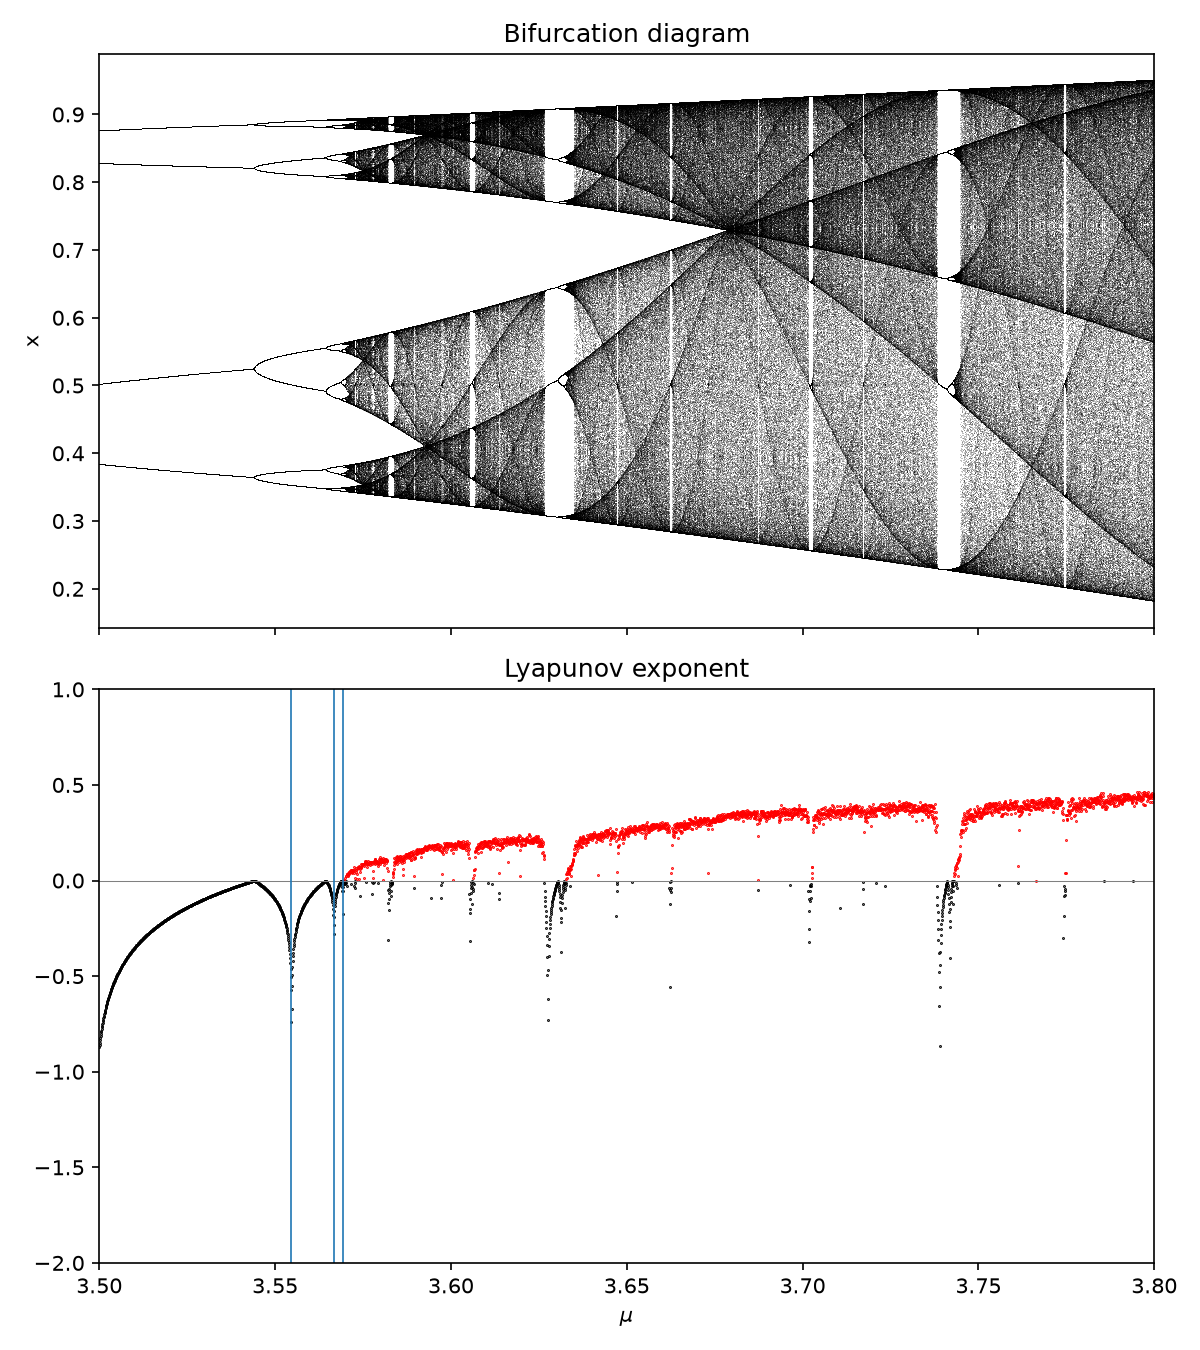
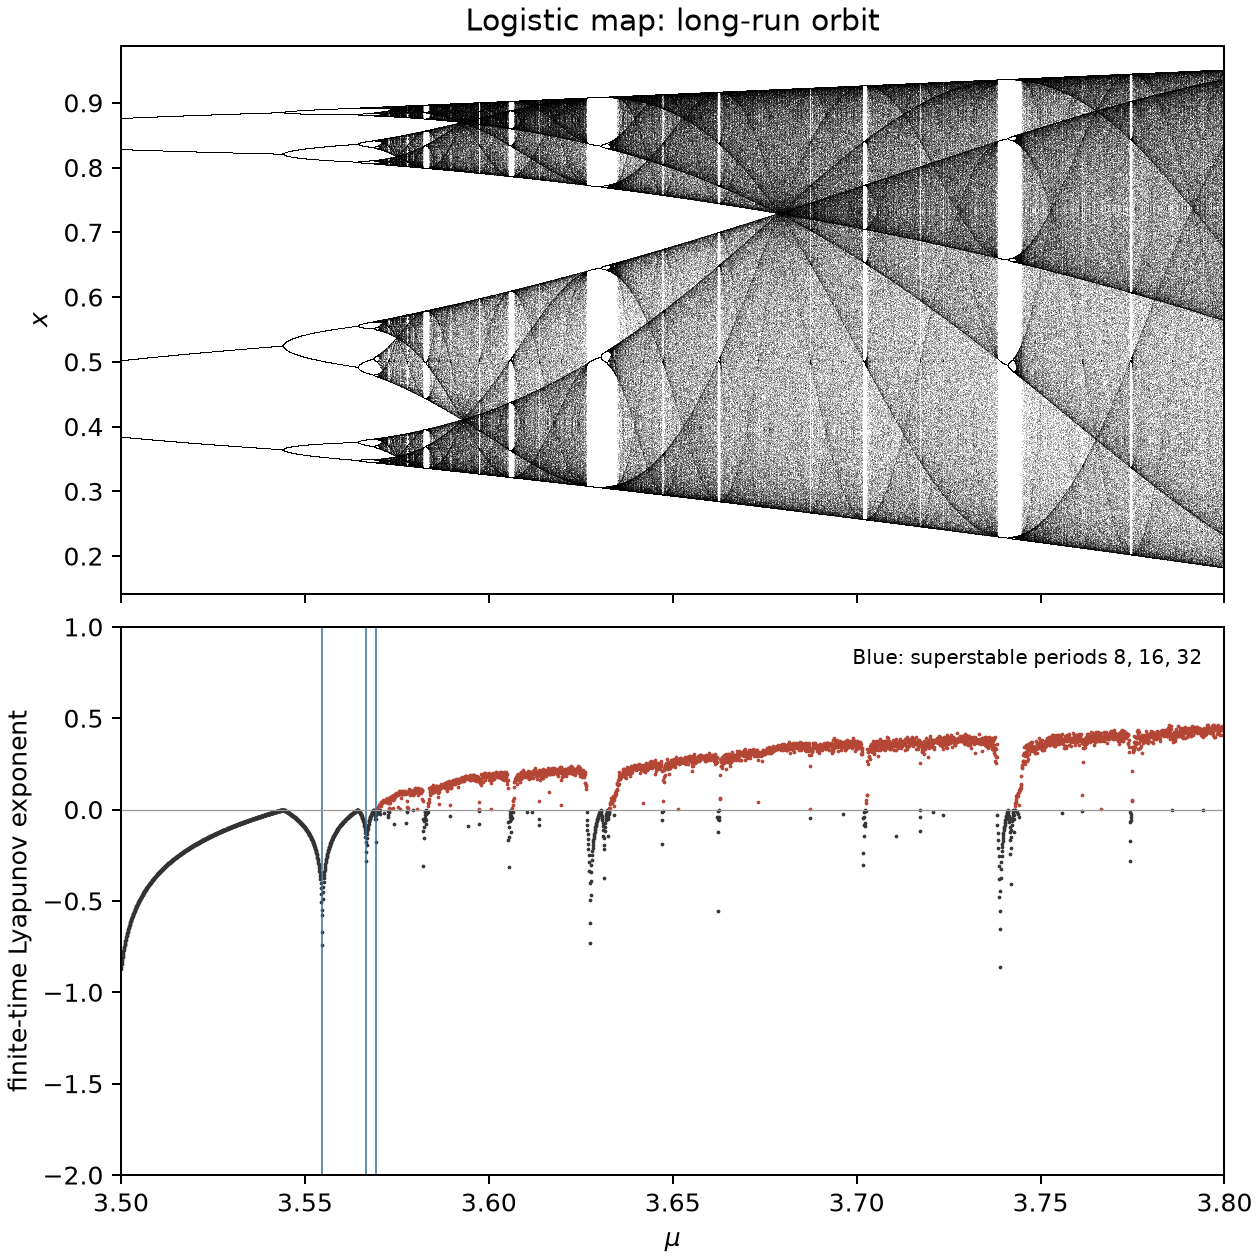
Add reproducible modern dynamical systems experiments

diff --git a/reconstructed/bifurcation_lyapunov.py b/reconstructed/bifurcation_lyapunov.py
@@ -1,61 +1,88 @@
-# Bifurcation diagram and Lyapunov exponent of the logistic map x -> mu x (1 - x).
-# 2026 reconstruction of a lost 2020 program; see figures/bifurcation.pdf for the original output.
-
-import os
+"""2026 reconstruction of the lost logistic-map experiment; originals are unchanged."""
+import argparse
 import numpy as np
-import matplotlib.pyplot as plt
-
-mu_min, mu_max = 3.5, 3.8
-n_mu = 4000          # number of parameter values
-transient = 1000     # iterations discarded before recording
-kept = 400           # iterations plotted and averaged
-
-mu = np.linspace(mu_min, mu_max, n_mu)
-x = np.full(n_mu, 0.5)
-
-for _ in range(transient):
-    x = mu * x * (1 - x)
-
-orbit = np.empty((kept, n_mu))
-lyap = np.zeros(n_mu)
-for k in range(kept):
-    x = mu * x * (1 - x)
-    orbit[k] = x
-    # lambda = lim (1/N) sum log|f'(x_n)|, with f'(x) = mu (1 - 2x)
-    lyap += np.log(np.abs(mu * (1 - 2 * x)) + 1e-300)
-lyap /= kept
+from common import save_figure
 
 
-def superstable(mu, N, iterations=50):
-    """Newton's method in mu for f^N(1/2) = 1/2, carrying d x / d mu along the orbit."""
+def iterate_parameter(mu, period):
+    """Return f_mu^period(1/2) and its parameter derivative."""
+    x, dx = 0.5, 0.0
+    for _ in range(period):
+        x, dx = mu*x*(1-x), x*(1-x) + mu*(1-2*x)*dx
+    return x, dx
+
+
+def superstable(mu, period, iterations=50, tolerance=1e-12):
+    """Find a primitive superstable orbit by Newton iteration; reject lower periods."""
+    if period < 1 or period != int(period) or not 0 < mu <= 4:
+        raise ValueError('period must be positive integral and mu must lie in (0, 4]')
     for _ in range(iterations):
-        x, dx = 0.5, 0.0
-        for _ in range(N):
-            x, dx = mu * x * (1 - x), x * (1 - x) + mu * (1 - 2 * x) * dx
-        mu = mu - (x - 0.5) / dx
-    return mu
+        x, dx = iterate_parameter(mu, period)
+        if abs(x - 0.5) <= tolerance:
+            for divisor in range(1, period):
+                if period % divisor == 0 and abs(iterate_parameter(mu, divisor)[0] - 0.5) <= 10*tolerance:
+                    raise ValueError('Newton iteration found a lower-period orbit')
+            return mu
+        if not np.isfinite(dx) or abs(dx) < np.finfo(float).eps:
+            raise RuntimeError('Newton derivative vanished or overflowed')
+        candidate = mu - (x - 0.5)/dx
+        if not np.isfinite(candidate) or not 0 < candidate <= 4:
+            raise RuntimeError('Newton iteration left the logistic parameter interval')
+        mu = candidate
+    raise RuntimeError('Newton iteration did not converge')
 
 
-# superstable parameters of period 8, 16, 32 (starting guesses read off the plot)
-marks = [superstable(m0, N) for m0, N in [(3.555, 8), (3.5667, 16), (3.5692, 32)]]
+def sample(mu, transient=1000, kept=400, x0=0.5):
+    """Finite-time Lyapunov estimate; log(0) remains -infinity, without a floor."""
+    mu = np.asarray(mu, dtype=float)
+    if transient < 0 or kept < 1 or np.any((mu < 0) | (mu > 4)) or not 0 <= x0 <= 1:
+        raise ValueError('invalid sampling parameters')
+    x = np.full(mu.shape, x0)
+    for _ in range(transient):
+        x = mu*x*(1-x)
+    orbit = np.empty((kept, *mu.shape))
+    lyap = np.zeros_like(mu)
+    with np.errstate(divide='ignore'):
+        for k in range(kept):
+            lyap += np.log(np.abs(mu*(1-2*x)))
+            x = mu*x*(1-x)
+            orbit[k] = x
+    return orbit, lyap/kept
 
-fig, (ax1, ax2) = plt.subplots(2, 1, figsize=(8, 9), sharex=True)
 
-ax1.plot(np.broadcast_to(mu, orbit.shape).ravel(), orbit.ravel(), ",k", alpha=0.25)
-ax1.set_title("Bifurcation diagram")
-ax1.set_ylabel("x")
+def main():
+    parser = argparse.ArgumentParser(description=__doc__)
+    parser.add_argument('--n-mu', type=int, default=4000)
+    parser.add_argument('--transient', type=int, default=1000)
+    parser.add_argument('--kept', type=int, default=400)
+    parser.add_argument('--output', default='generated/bifurcation_lyapunov')
+    args = parser.parse_args()
+    if args.n_mu < 2:
+        parser.error('--n-mu must be at least 2')
+    import matplotlib
+    matplotlib.use('Agg')
+    import matplotlib.pyplot as plt
+    mu = np.linspace(3.5, 3.8, args.n_mu)
+    orbit, lyap = sample(mu, args.transient, args.kept)
+    marks = [superstable(m, p) for m, p in [(3.555,8),(3.5667,16),(3.5692,32)]]
+    fig, (top, bottom) = plt.subplots(2, 1, figsize=(7, 7), sharex=True, layout='constrained')
+    top.plot(np.broadcast_to(mu, orbit.shape).ravel(), orbit.ravel(), ',k', alpha=.2, rasterized=True)
+    top.set(ylabel='$x$', title='Logistic map: long-run orbit')
+    for positive, color in [(False, '#333333'), (True, '#b44635')]:
+        mask = np.isfinite(lyap) & ((lyap > 0) == positive)
+        bottom.plot(mu[mask], lyap[mask], '.', color=color, ms=1, rasterized=True)
+    for period, value in zip((8,16,32), marks):
+        bottom.axvline(value, color='#326b94', lw=.6)
+    bottom.text(.98, .96, 'Blue: superstable periods 8, 16, 32',
+                transform=bottom.transAxes, ha='right', va='top', fontsize=8)
+    bottom.axhline(0, color='.6', lw=.5)
+    bottom.set(xlabel='$\\mu$', ylabel='finite-time Lyapunov exponent', ylim=(-2,1), xlim=(3.5,3.8))
+    save_figure(fig, args.output, vars(args) | {'mu_range':[3.5,3.8], 'x0':.5, 'superstable':marks,
+                'zero_derivative':'negative infinity; omitted from finite plot', 'lyapunov_plot_limits':[-2,1]},
+                dict(mu=mu, orbit=orbit, lyapunov=lyap))
+    plt.close(fig)
+    print('superstable parameters:', ', '.join(f'{x:.10f}' for x in marks))
 
-chaotic = lyap > 0
-ax2.plot(mu[~chaotic], lyap[~chaotic], ".k", ms=0.8)
-ax2.plot(mu[chaotic], lyap[chaotic], ".", color="red", ms=0.8)
-ax2.axhline(0, color="gray", lw=0.5)
-for m in marks:
-    ax2.axvline(m, color="tab:blue", lw=0.8)
-ax2.set_ylim(-2, 1)
-ax2.set_xlim(mu_min, mu_max)
-ax2.set_title("Lyapunov exponent")
-ax2.set_xlabel(r"$\mu$")
 
-fig.tight_layout()
-fig.savefig(os.path.join(os.path.dirname(os.path.abspath(__file__)), "bifurcation_lyapunov.png"), dpi=150)
-print("superstable parameters (periods 8, 16, 32):", ", ".join(f"{m:.7f}" for m in marks))
+if __name__ == '__main__':
+    main()

diff --git a/reconstructed/newton_basins.py b/reconstructed/newton_basins.py
@@ -1,0 +1,72 @@
+"""A bounded-memory companion to the historical Newton basin experiment."""
+import argparse
+import numpy as np
+from common import save_figure
+
+
+def classify(z0, degree=4, iterations=50, tolerance=1e-8):
+    """Root indices 0..degree-1, or -1 when no residual-certified root is found."""
+    if degree < 2 or iterations < 1 or tolerance <= 0:
+        raise ValueError('invalid Newton iteration parameters')
+    z = np.asarray(z0, dtype=complex).copy()
+    labels = np.full(z.shape, -1, dtype=np.int16)
+    active = np.isfinite(z)
+    for _ in range(iterations + 1):
+        with np.errstate(over='ignore', invalid='ignore'):
+            residual = np.abs(z**degree - 1)
+        converged = active & (residual <= tolerance)
+        angle = np.mod(np.angle(z[converged]), 2*np.pi)
+        labels[converged] = np.rint(angle*degree/(2*np.pi)).astype(int) % degree
+        active &= ~converged
+        if _ == iterations:
+            break
+        active &= np.isfinite(z) & (np.abs(z) > 1e-14)
+        if not active.any():
+            break
+        with np.errstate(over='ignore', invalid='ignore', divide='ignore'):
+            z[active] -= (z[active]**degree - 1)/(degree*z[active]**(degree-1))
+    return labels
+
+
+def basins(resolution=800, degree=4, iterations=50):
+    """Process one image row at a time, avoiding multiple full complex grids."""
+    if not 2 <= resolution <= 4096 or not 2 <= degree <= 12:
+        raise ValueError('resolution must lie in [2,4096] and degree in [2,12]')
+    axis = np.linspace(-1, 1, resolution)
+    labels = np.empty((resolution, resolution), dtype=np.int16)
+    for row, y in enumerate(axis):
+        labels[row] = classify(axis + 1j*y, degree, iterations)
+    return axis, labels
+
+
+def main():
+    parser = argparse.ArgumentParser(description=__doc__)
+    parser.add_argument('--resolution', type=int, default=800)
+    parser.add_argument('--degree', type=int, default=4)
+    parser.add_argument('--iterations', type=int, default=50)
+    parser.add_argument('--output', default='generated/newton_basins')
+    args = parser.parse_args()
+    axis, labels = basins(args.resolution, args.degree, args.iterations)
+    import matplotlib
+    matplotlib.use('Agg')
+    import matplotlib.pyplot as plt
+    from matplotlib.colors import ListedColormap, BoundaryNorm
+    from matplotlib.patches import Patch
+    colors = ['#eeeeee'] + [plt.get_cmap('tab20')(k / max(args.degree, 1)) for k in range(args.degree)]
+    cmap = ListedColormap(colors)
+    fig, ax = plt.subplots(figsize=(6.5,6), layout='constrained')
+    # Pixel centers agree with the sampled domain, including its endpoints.
+    half = (axis[1]-axis[0])/2
+    ax.imshow(labels, origin='lower', extent=(-1-half,1+half,-1-half,1+half),
+              cmap=cmap, norm=BoundaryNorm(np.arange(-1.5,args.degree+.5), cmap.N), interpolation='nearest')
+    ax.set(xlabel='Re $z_0$', ylabel='Im $z_0$', title=f'Newton basins for $z^{args.degree}-1$')
+    handles = [Patch(color=colors[0], label='not converged / singular')]
+    handles += [Patch(color=colors[k+1], label=rf'$e^{{2\pi i\,{k}/{args.degree}}}$') for k in range(args.degree)]
+    ax.legend(handles=handles, loc='upper center', bbox_to_anchor=(.5,-.12), ncol=3, fontsize=8)
+    save_figure(fig, args.output, vars(args) | {'residual_tolerance':1e-8, 'domain':[-1,1,-1,1],
+                'unclassified':int((labels < 0).sum())}, dict(axis=axis, root_index=labels))
+    plt.close(fig)
+
+
+if __name__ == '__main__':
+    main()

diff --git a/tests/test_experiments.py b/tests/test_experiments.py
@@ -1,0 +1,48 @@
+"""Scientific checks for modern companions; historical code remains untouched."""
+import sys
+from pathlib import Path
+import numpy as np
+import pytest
+sys.path.insert(0, str(Path(__file__).resolve().parents[1] / 'reconstructed'))
+from bifurcation_lyapunov import iterate_parameter, superstable, sample
+from newton_basins import classify, basins
+
+
+def test_parameter_derivative_matches_difference():
+    mu, h = 3.55, 1e-7
+    x, derivative = iterate_parameter(mu, 8)
+    numerical = (iterate_parameter(mu+h,8)[0]-iterate_parameter(mu-h,8)[0])/(2*h)
+    assert derivative == pytest.approx(numerical, rel=1e-6)
+
+
+@pytest.mark.parametrize('period,guess,expected', [(2,3.24,1+np.sqrt(5)),(4,3.50,3.4985616993),
+                                                  (8,3.555,3.5546408628),(16,3.5667,3.5666673799),
+                                                  (32,3.5692,3.5692435316)])
+def test_primitive_superstable(period, guess, expected):
+    mu = superstable(guess, period)
+    assert mu == pytest.approx(expected, abs=1e-9)
+    assert abs(iterate_parameter(mu,period)[0]-.5) < 1e-12
+
+
+def test_lower_period_is_rejected():
+    with pytest.raises(ValueError, match='lower-period'):
+        superstable(2., 4)
+
+
+def test_lyapunov_fixed_point_and_zero_derivative():
+    _, exponent = sample(np.array([2.8, 2.]), transient=1000, kept=400, x0=.1)
+    assert exponent[0] == pytest.approx(np.log(.8), abs=1e-10)
+    assert exponent[1] == -np.inf
+
+
+def test_newton_classification_and_unresolved():
+    roots = np.exp(2j*np.pi*np.arange(4)/4)
+    np.testing.assert_array_equal(classify(roots + .001), np.arange(4))
+    assert classify(np.array([0j, complex('nan')])).tolist() == [-1,-1]
+    assert classify(np.array([.1+.2j]), iterations=1).item() == -1
+
+
+def test_rowwise_matches_direct():
+    axis, labels = basins(17)
+    direct = classify(axis[None,:] + 1j*axis[:,None])
+    np.testing.assert_array_equal(labels, direct)

diff --git a/reconstructed/cobweb.py b/reconstructed/cobweb.py
@@ -1,7 +1,8 @@
 # Cobweb (web) diagrams for the logistic map x -> mu x (1 - x).
 # 2026 reconstruction of a lost 2020 program.
 
-import os
+import argparse
+from common import save_figure
 import numpy as np
 import matplotlib.pyplot as plt
 
@@ -33,10 +34,15 @@ def cobweb(ax, f, x0, n, title=""):
 
 
 if __name__ == "__main__":
+    parser = argparse.ArgumentParser(description=__doc__)
+    parser.add_argument('--output', default='generated/cobweb')
+    args = parser.parse_args()
     cases = [(2.8, "fixed point"), (3.3, "period 2"), (3.5, "period 4"), (3.9, "chaos")]
     fig, axes = plt.subplots(2, 2, figsize=(8, 8))
     for ax, (mu, label) in zip(axes.ravel(), cases):
         cobweb(ax, lambda x, mu=mu: logistic(mu, x), x0=0.1, n=60 if mu < 3.8 else 40,
                title=rf"$\mu = {mu}$ ({label})")
     fig.tight_layout()
-    fig.savefig(os.path.join(os.path.dirname(os.path.abspath(__file__)), "cobweb.png"), dpi=150)
+    save_figure(fig, args.output, {'mu': [v for v, _ in cases], 'x0': 0.1,
+                'iterations': [60,60,60,40]})
+    plt.close(fig)

diff --git a/reconstructed/common.py b/reconstructed/common.py
@@ -1,0 +1,19 @@
+"""Small, local helpers for the reconstructed experiments."""
+import json
+from pathlib import Path
+import platform
+import numpy as np
+import matplotlib
+
+
+def save_figure(fig, output, parameters, data=None):
+    """Write a preview, a publication figure, and regeneration metadata."""
+    output = Path(output)
+    output.parent.mkdir(parents=True, exist_ok=True)
+    for extension in ('png', 'pdf'):
+        fig.savefig(output.with_suffix('.' + extension), dpi=180)
+    metadata = dict(parameters=parameters, python=platform.python_version(),
+                    numpy=np.__version__, matplotlib=matplotlib.__version__)
+    output.with_suffix('.json').write_text(json.dumps(metadata, indent=2) + '\n')
+    if data is not None:
+        np.savez_compressed(output.with_suffix('.npz'), **data)

diff --git a/README.md b/README.md
@@ -24,8 +24,9 @@ which is included as LaTeX source and PDF.
 | `julia_set.py` | The same algorithm with $c$ fixed and $z_0$ varying, which draws filled Julia sets. The figures for other values of $c$ come from editing one line. |
 | `superstable.py` | Newton's method in the parameter μ, aimed at the superstable 2ⁿ-periodic orbits of the logistic map $x \mapsto \mu x(1-x)$, i.e. solutions of $f_\mu^{N}(1/2) = 1/2$. See the notes below. |
 
-Requires Python 3 with NumPy, SciPy, Matplotlib and Pillow. Each script runs on its
-own: `python code/mandelbrot.py`.
+Requires Python 3 with NumPy, SciPy, Matplotlib and Pillow. The original scripts reflect their 2020 interactive workflow; output handling and
+resource use differ. For safe, reproducible modern figures, follow
+[the reconstruction commands](docs/reproduce.md).
 
 ## Figures (`figures/`)
 
@@ -87,7 +88,7 @@ was.
 
 ## Reconstructions (2026)
 
-`reconstructed/` holds new versions of the two lost programs, written in 2026 and
+`reconstructed/` holds modern companions and new versions of the two lost programs, written in 2026 and
 committed separately from the 2020 material.
 
 * `bifurcation_lyapunov.py` redraws the 2020 figure. The top panel shows the
@@ -95,10 +96,20 @@ committed separately from the 2020 material.
   Lyapunov exponent $\lambda \approx \frac{1}{N}\sum_{n}\log\lvert\mu(1-2x_n)\rvert$,
   red where it is positive. The vertical lines are the period-8, 16 and 32
   superstable parameters, found with the corrected Newton iteration.
+* `newton_basins.py` redraws the Newton basins with bounded memory, configurable
+  resolution, and explicit unresolved points.
 * `cobweb.py` draws cobweb (web) diagrams. The `cobweb()` function works for any map
   on [0, 1]. The script draws the logistic map at μ = 2.8, 3.3, 3.5 and 3.9: a fixed
   point, period 2, period 4 and chaos.
 
 <p align="center">
   <img src="reconstructed/cobweb.png" width="60%" alt="Cobweb diagrams of the logistic map at mu = 2.8, 3.3, 3.5 and 3.9: a staircase spiralling into a fixed point, settling onto a 2-cycle, onto a 4-cycle, and wandering chaotically">
+</p>
+
+Regeneration commands, numerical conventions, and output formats are in
+[Reproduce the modern experiments](docs/reproduce.md). The companions export
+PDF and PNG, record their parameters and library versions, and have numerical tests.
+
+<p align="center">
+  <img src="docs/newton_basins.png" width="65%" alt="Modern Newton basins with residual-certified root colors and unresolved points marked gray">
 </p>

diff --git a/docs/reproduce.md b/docs/reproduce.md
@@ -1,0 +1,43 @@
+# Reproduce the modern experiments
+
+Run from the repository root with Python 3.10 or later:
+
+```sh
+python -m venv .venv
+. .venv/bin/activate
+python -m pip install -r requirements.txt
+python -m pytest -q
+python reconstructed/bifurcation_lyapunov.py
+python reconstructed/cobweb.py
+python reconstructed/newton_basins.py --resolution 800
+```
+
+For the exact direct dependency versions used in the reconstruction checks,
+install `requirements-tested.txt` instead.
+
+Each command writes a PNG preview, PDF, and JSON parameters/version record in
+`generated/`. The basin and bifurcation commands also save numerical arrays in
+NPZ files. Use `--output PATH` to choose a different basename. These outputs are
+modern reconstructions; the 2020 sources and figures remain in `code/`,
+`figures/`, and `writeup/`.
+
+For the logistic map, the defaults discard 1000 iterates and retain 400 at 4000
+parameters in [3.5, 3.8]. Assess finite-time sensitivity by increasing
+`--transient`, `--kept`, and `--n-mu`, for example to 2000, 800, and 8000.
+The Lyapunov estimate uses the orbit derivative before each update. An exactly
+zero derivative gives negative infinity; no numerical floor is added. Such values
+are preserved in the NPZ file and omitted from the finite plot, whose vertical
+range is [-2, 1]. A positive finite-time estimate alone is not a proof of chaos.
+The superstable solver rejects lower periods, vanished derivatives, departures
+from (0, 4], and failure to meet its residual tolerance.
+
+Newton basins use one complex row at a time, with resolution bounded by 4096.
+The displayed square is [-1, 1]^2. A root receives a color only when
+|z^d - 1| <= 10^-8 within the iteration budget. Gray marks singular starts and
+unresolved points, including nonfinite iterates. Try `--degree 3` for the other
+historical picture or `--iterations 100` to assess iteration sensitivity.
+
+The old write-up cannot yet be rebuilt: its personal `preamble.sty` is absent,
+its file paths assume a flat directory, and its preamble needs repair. Its
+historical PDF is the authoritative preserved output. A reconstructed edition
+would need its own mathematical and layout review.
